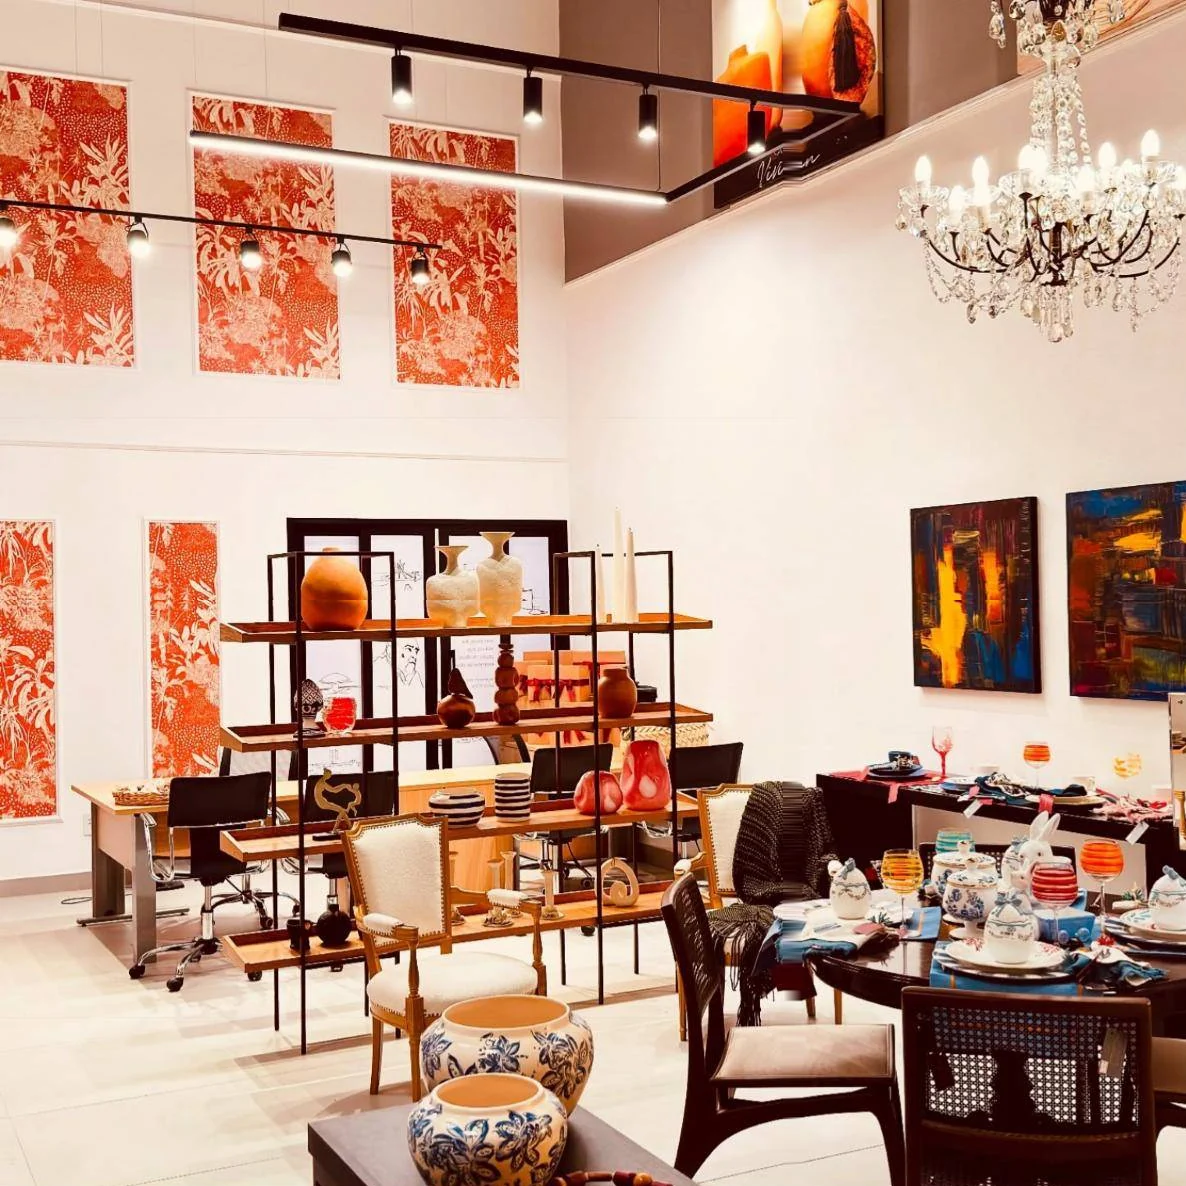
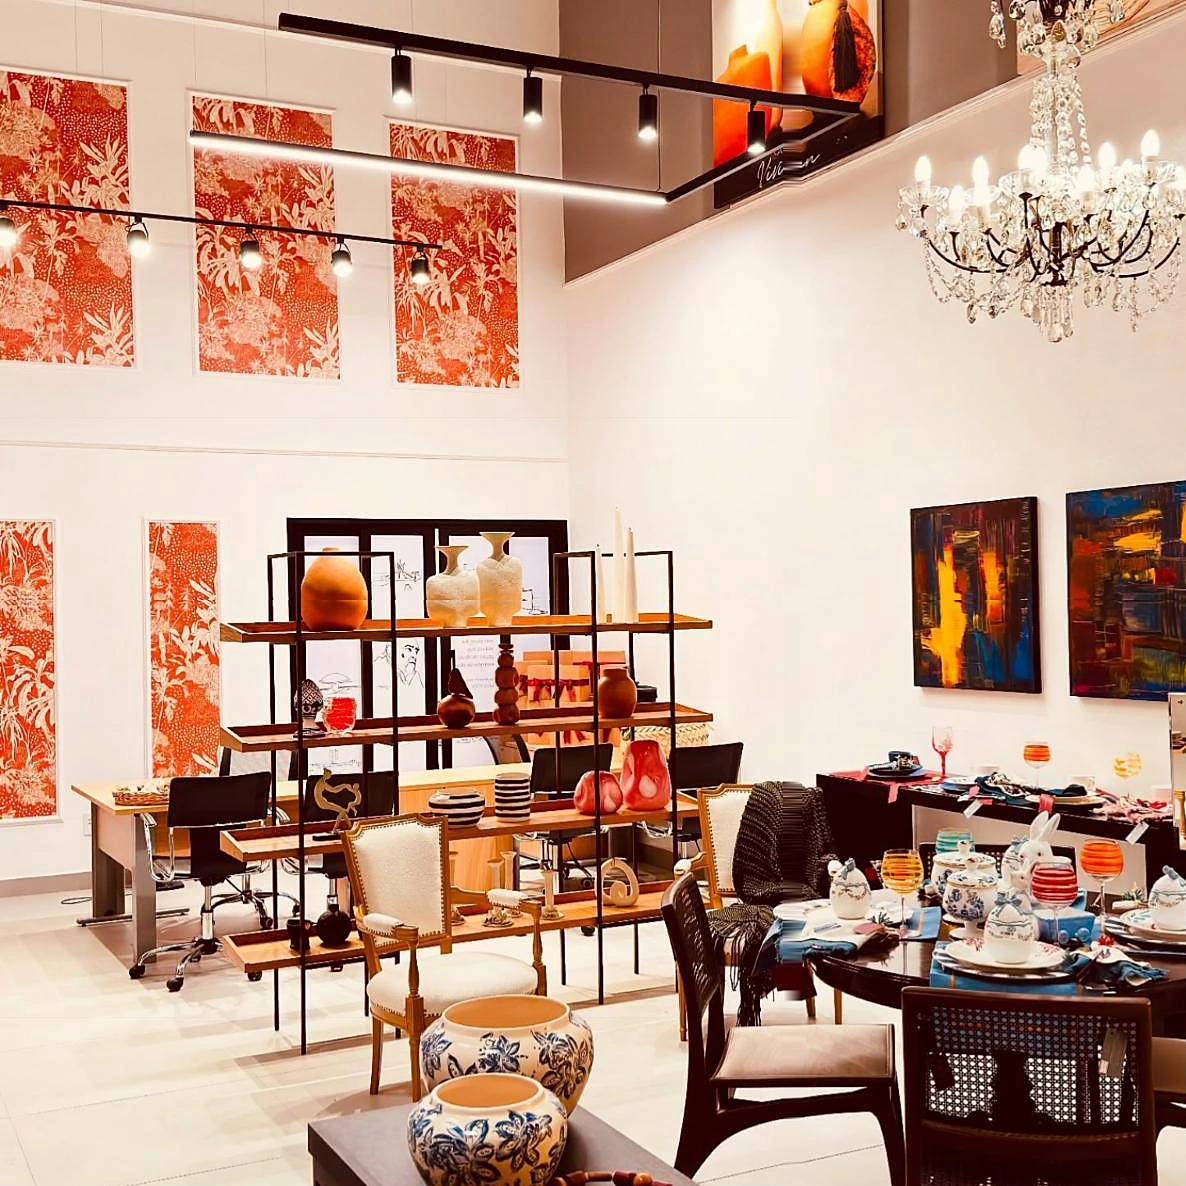
Hero nítido na ampliação, recorte dos pratos e item Produtos na navbar
- quadro do hero passa a ser rasterizado no tamanho final e reduzido por
  transform (antes um bitmap pequeno era esticado ~4x e saía borrado)
- posição de repouso definida no CSS e lida pelo JS, placa fora do quadro
- foto do salão com unsharp mask leve e WebP em qualidade 93
- pratos pintados recortados na peça, sem a área vazia da parede
- navbar e menu com item Produtos (ícone de sacola)
- alvos de toque da marca e dos links com seta em 44px

Claude-Session: https://claude.ai/code/session_01SUpnNRcre4yeK6zTvbqiMV

diff --git a/src/site.css b/src/site.css
@@ -70,7 +70,7 @@ fieldset { border: 0; min-width: 0; }
 .titulo-secao .l > span { display: inline-block; }
 
 /* ---------- Marca ---------- */
-.marca { display: inline-flex; align-items: baseline; gap: 0.32em; text-decoration: none; line-height: 1; }
+.marca { display: inline-flex; align-items: baseline; gap: 0.32em; text-decoration: none; line-height: 1; padding: 8px 0; min-height: 44px; align-content: center; }
 .marca__casa { font-family: var(--sans); font-weight: 400; letter-spacing: 0.34em; font-size: 12px; transform: translateY(-0.4em); }
 .marca__vivian { font-family: var(--script); font-size: 38px; color: var(--rose); line-height: 0.8; }
 .nav--clara .marca__vivian { color: var(--vinho); }
@@ -96,7 +96,13 @@ fieldset { border: 0; min-width: 0; }
   .pilula--linha-clara:hover { background: var(--branco); color: var(--tinta); }
   .arq .pilula--linha:hover, .encontros .pilula--linha:hover { background: var(--branco); color: var(--tinta); }
 }
-.link-seta { display: inline-flex; gap: .5em; align-items: center; font-weight: 500; text-decoration: none; border-bottom: 1px solid currentColor; padding-bottom: 2px; }
+.ico { flex: none; opacity: .85; }
+.indice a { display: inline-flex; align-items: center; gap: 7px; }
+.indice__atual { font-weight: 500; opacity: 1 !important; }
+.indice__atual::after { transform: scaleX(1) !important; }
+.link-seta { display: inline-flex; gap: .5em; align-items: center; font-weight: 500; text-decoration: none; padding: 12px 0 4px; }
+.link-seta { position: relative; }
+.link-seta::after { content: ''; position: absolute; left: 0; right: 0; bottom: 2px; height: 1px; background: currentColor; }
 .link-seta span { transition: transform .4s var(--ease); }
 @media (hover: hover) { .link-seta:hover span { transform: translateX(5px); } }
 
@@ -145,7 +151,14 @@ fieldset { border: 0; min-width: 0; }
 .pagina-inicio { background: var(--chao); }
 .hero { background: var(--chao); color: var(--branco); }
 .hero__trilha { height: 230svh; position: relative; }
-.hero__tela { position: sticky; top: 0; height: 100svh; overflow: hidden; }
+.hero__tela {
+  position: sticky; top: 0; height: 100svh; overflow: hidden;
+  --q-w: min(46svh, 42vw);            /* largura da foto emoldurada em repouso */
+  --q-top: calc(var(--nav-h) + 3svh);
+  --q-lado: calc(max(100vw, 100svh) * 1.03);  /* lado do quadro no tamanho final */
+}
+/* medida invisível: o CSS decide a posição de repouso, o JS apenas a lê */
+.quadro__guia { position: absolute; left: 50%; top: var(--q-top); width: var(--q-w); aspect-ratio: 1; translate: -50% 0; visibility: hidden; pointer-events: none; }
 .galeria {
   position: absolute; inset: 0;
   background:
@@ -156,20 +169,25 @@ fieldset { border: 0; min-width: 0; }
   content: ''; position: absolute; left: 0; right: 0; bottom: 0; height: 26%; background: var(--chao);
 }
 .quadro {
-  position: absolute; left: 50%; top: calc(var(--nav-h) + 3svh);
-  width: min(46svh, 42vw); translate: -50% 0;
-  transform-origin: 50% 50%; will-change: transform;
-  z-index: 2;
+  position: absolute; left: 50%; top: 50%;
+  width: var(--q-lado); height: var(--q-lado);
+  margin-left: calc(var(--q-lado) / -2); margin-top: calc(var(--q-lado) / -2);
+  transform-origin: 50% 50%;
+  opacity: 0; z-index: 2;
 }
+.hero-pronto .quadro { opacity: 1; }
 .quadro__moldura {
   --borda: 14px;
+  width: 100%; height: 100%;
   background: var(--vinho-2);
   padding: var(--borda);
   outline: 1px solid rgba(233,198,201,.18);
 }
-.quadro__moldura img { width: 100%; aspect-ratio: 1; object-fit: cover; }
+.quadro__moldura img { width: 100%; height: 100%; object-fit: cover; }
 .placa {
-  position: absolute; left: calc(100% + 28px); bottom: 6%;
+  position: absolute; z-index: 3;
+  left: calc(50% + var(--q-w) / 2 + 28px);
+  top: calc(var(--q-top) + var(--q-w) * 0.6);
   width: 190px; padding: 12px 14px; background: var(--papel); color: var(--tinta);
   font-size: 12px; line-height: 1.45; display: grid; gap: 2px;
 }
@@ -550,8 +568,8 @@ dialog::backdrop { background: rgba(18,7,9,.6); }
 }
 @media (max-width: 640px) {
   .hero__texto { flex-direction: column; align-items: start; }
-  .quadro { width: 70vw; top: calc(var(--nav-h) + 4svh); }
-  .placa { left: auto; right: 0; bottom: auto; top: calc(100% + 10px); width: auto; max-width: 70vw; }
+  .hero__tela { --q-w: 70vw; --q-top: calc(var(--nav-h) + 4svh); }
+  .placa { left: auto; right: var(--m); top: calc(var(--q-top) + var(--q-w) + 12px); width: auto; max-width: 70vw; }
   .hero__titulo { white-space: normal; font-size: clamp(62px, 19vw, 110px); }
   .mesa__composicao { aspect-ratio: 1; }
   .filtros__linha--ferramentas { display: grid; grid-template-columns: 1fr 1fr; }

diff --git a/src/inicio.js b/src/inicio.js
@@ -13,28 +13,41 @@ iniciarNav()
 function hero() {
   const quadro = $('.quadro')
   const moldura = $('.quadro__moldura')
+  const guia = $('.quadro__guia')
+  const tela = $('.hero__tela')
+
+  // O quadro existe no tamanho FINAL (tela cheia) e é reduzido até virar a foto
+  // emoldurada. Assim o navegador rasteriza a imagem no tamanho grande e a
+  // ampliação no fim da rolagem sai nítida, em vez de esticar um bitmap pequeno.
+  const repouso = () => {
+    const g = guia.getBoundingClientRect()
+    const t = tela.getBoundingClientRect()
+    const lado = quadro.offsetWidth || 1
+    return {
+      s: g.width / lado,
+      x: g.left + g.width / 2 - (t.left + t.width / 2),
+      y: g.top + g.height / 2 - (t.top + t.height / 2),
+    }
+  }
+  const borda = () => 14 / repouso().s + 'px'
+  const aplicarRepouso = () => {
+    const r = repouso()
+    gsap.set(quadro, { scale: r.s, x: r.x, y: r.y })
+    moldura.style.setProperty('--borda', borda())
+  }
+  aplicarRepouso()
+  document.documentElement.classList.add('hero-pronto')
+
   if (reduz) {
     document.documentElement.classList.add('sem-movimento')
+    addEventListener('resize', aplicarRepouso)
     return
   }
   // entrada
-  gsap.from('.quadro', { opacity: 0, y: 30, duration: 1.6, ease: 'expo.out', delay: 0.1 })
+  gsap.from('.quadro', { opacity: 0, duration: 1.6, ease: 'expo.out', delay: 0.1 })
   gsap.from('.hero__titulo', { yPercent: 40, opacity: 0, duration: 1.4, ease: 'expo.out', delay: 0.25 })
   gsap.from('.hero__texto > *', { y: 20, opacity: 0, duration: 1.1, ease: 'expo.out', stagger: 0.08, delay: 0.45 })
   gsap.from('.placa', { opacity: 0, x: -10, duration: 1, delay: 0.9 })
-
-  const escala = () => {
-    const r = moldura.getBoundingClientRect()
-    const w = r.width / (gsap.getProperty(quadro, 'scale') || 1)
-    const h = r.height / (gsap.getProperty(quadro, 'scale') || 1)
-    return Math.max(innerWidth / w, innerHeight / h) * 1.06
-  }
-  const desloc = () => {
-    // leva o centro do quadro ao centro da tela
-    const r = quadro.getBoundingClientRect()
-    const s = gsap.getProperty(quadro, 'y') || 0
-    return innerHeight / 2 - (r.top - s + moldura.offsetHeight / 2)
-  }
 
   const tl = gsap.timeline({
     defaults: { ease: 'none' },
@@ -48,8 +61,13 @@ function hero() {
   })
   tl.to('.hero__conteudo', { opacity: 0, y: -40, duration: 0.25 }, 0)
     .to('.placa', { opacity: 0, duration: 0.12 }, 0)
-    .to(quadro, { scale: escala, y: desloc, duration: 0.6, ease: 'power2.inOut' }, 0.02)
-    .to('.quadro__moldura', { '--borda': '0px', duration: 0.4 }, 0.15)
+    .fromTo(
+      quadro,
+      { scale: () => repouso().s, x: () => repouso().x, y: () => repouso().y },
+      { scale: 1, x: 0, y: 0, duration: 0.6, ease: 'power2.inOut' },
+      0.02
+    )
+    .fromTo(moldura, { '--borda': borda }, { '--borda': '0px', duration: 0.4 }, 0.15)
     .to('.galeria', { opacity: 0.4, duration: 0.5 }, 0.1)
     .to('.hero__veu', { opacity: 1, duration: 0.2 }, 0.62)
     .fromTo('.hero__frase', { opacity: 0, y: 30, filter: 'blur(8px)' }, { opacity: 1, y: 0, filter: 'blur(0px)', duration: 0.18 }, 0.66)

diff --git a/index.html b/index.html
@@ -31,7 +31,10 @@
       <a href="#visite">Visite</a>
     </nav>
     <div class="acoes">
-      <a class="pilula pilula--linha" href="produtos.html" data-magnetico>Loja</a>
+      <a class="pilula pilula--linha" href="produtos.html" data-magnetico>
+        <svg class="ico" viewBox="0 0 24 24" width="17" height="17" aria-hidden="true"><path d="M4.5 8.5h15l-1.1 10.1a2 2 0 0 1-2 1.8H7.6a2 2 0 0 1-2-1.8L4.5 8.5Z" fill="none" stroke="currentColor" stroke-width="1.5" stroke-linejoin="round"/><path d="M9 10V7.2a3 3 0 0 1 6 0V10" fill="none" stroke="currentColor" stroke-width="1.5" stroke-linecap="round"/></svg>
+        Produtos
+      </a>
       <button class="pilula pilula--cheia sacola-btn" data-abrir-sacola aria-label="Abrir sacola">
         Sacola <span class="contador" data-contador hidden>0</span>
       </button>
@@ -47,7 +50,7 @@
     <a href="#arquitetura">Arquitetura</a>
     <a href="#encontros">Encontros</a>
     <a href="#visite">Visite</a>
-    <a href="produtos.html">Loja</a>
+    <a href="produtos.html">Produtos</a>
     <p class="menu__pe">Divinópolis · Varginha</p>
   </nav>
 
@@ -57,16 +60,17 @@
       <div class="hero__trilha">
         <div class="hero__tela">
           <div class="galeria" aria-hidden="true"></div>
+          <div class="quadro__guia" aria-hidden="true"></div>
           <figure class="quadro">
             <div class="quadro__moldura">
               <img src="img/loja-salao.webp" alt="Salão da Casa Vivian: painéis florais terracota, estantes de madeira com vasos e mesa posta azul e branco" width="1186" height="1186" fetchpriority="high">
             </div>
-            <figcaption class="placa">
-              <strong>Casa Vivian</strong>
-              <span>O salão, Varginha · 2026</span>
-              <span>Louças, vidro, cerâmica e madeira</span>
-            </figcaption>
           </figure>
+          <p class="placa">
+            <strong>Casa Vivian</strong>
+            <span>O salão, Varginha · 2026</span>
+            <span>Louças, vidro, cerâmica e madeira</span>
+          </p>
           <div class="hero__veu" aria-hidden="true"></div>
           <div class="hero__conteudo">
             <div class="hero__texto">
@@ -252,7 +256,7 @@
     <div class="rodape__topo">
       <p class="rodape__frase">Sua casa e você são únicas. Nós também.</p>
       <nav class="rodape__links" aria-label="Rodapé">
-        <a href="produtos.html">Loja</a>
+        <a href="produtos.html">Produtos</a>
         <a href="#mesa">Mesa posta</a>
         <a href="#arquitetura">Arquitetura</a>
         <a href="https://www.instagram.com/casavivian/" target="_blank" rel="noopener">Instagram</a>

diff --git a/produtos.html b/produtos.html
@@ -20,6 +20,10 @@
       <span class="marca__casa">CASA</span><span class="marca__vivian">Vivian</span>
     </a>
     <nav class="indice" aria-label="Seções">
+      <a class="indice__atual" href="produtos.html" aria-current="page">
+        <svg class="ico" viewBox="0 0 24 24" width="16" height="16" aria-hidden="true"><path d="M4.5 8.5h15l-1.1 10.1a2 2 0 0 1-2 1.8H7.6a2 2 0 0 1-2-1.8L4.5 8.5Z" fill="none" stroke="currentColor" stroke-width="1.5" stroke-linejoin="round"/><path d="M9 10V7.2a3 3 0 0 1 6 0V10" fill="none" stroke="currentColor" stroke-width="1.5" stroke-linecap="round"/></svg>
+        Produtos
+      </a>
       <a href="./#salas">Salas</a>
       <a href="./#mesa">Mesa posta</a>
       <a href="./#arquitetura">Arquitetura</a>
@@ -42,6 +46,7 @@
     <a href="./#mesa">Mesa posta</a>
     <a href="./#arquitetura">Arquitetura</a>
     <a href="./#visite">Visite</a>
+    <a href="produtos.html">Produtos</a>
     <p class="menu__pe">Divinópolis · Varginha</p>
   </nav>
 
